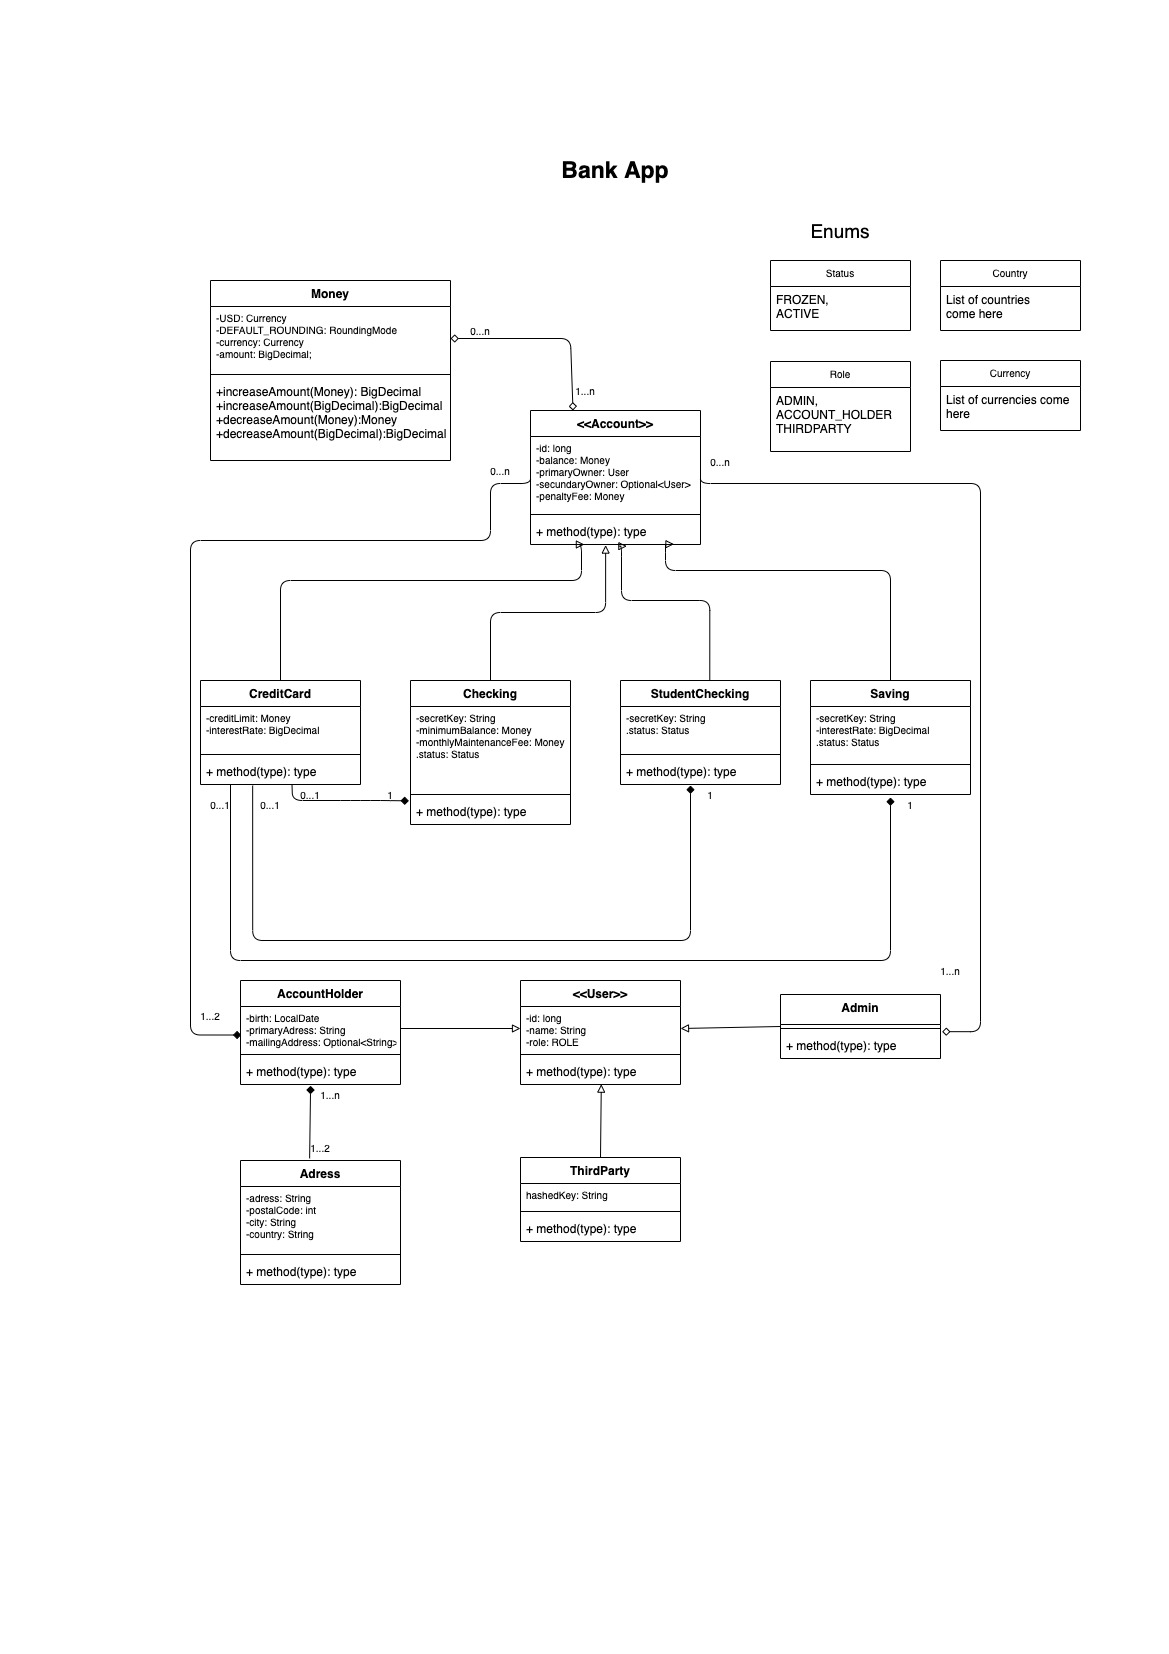
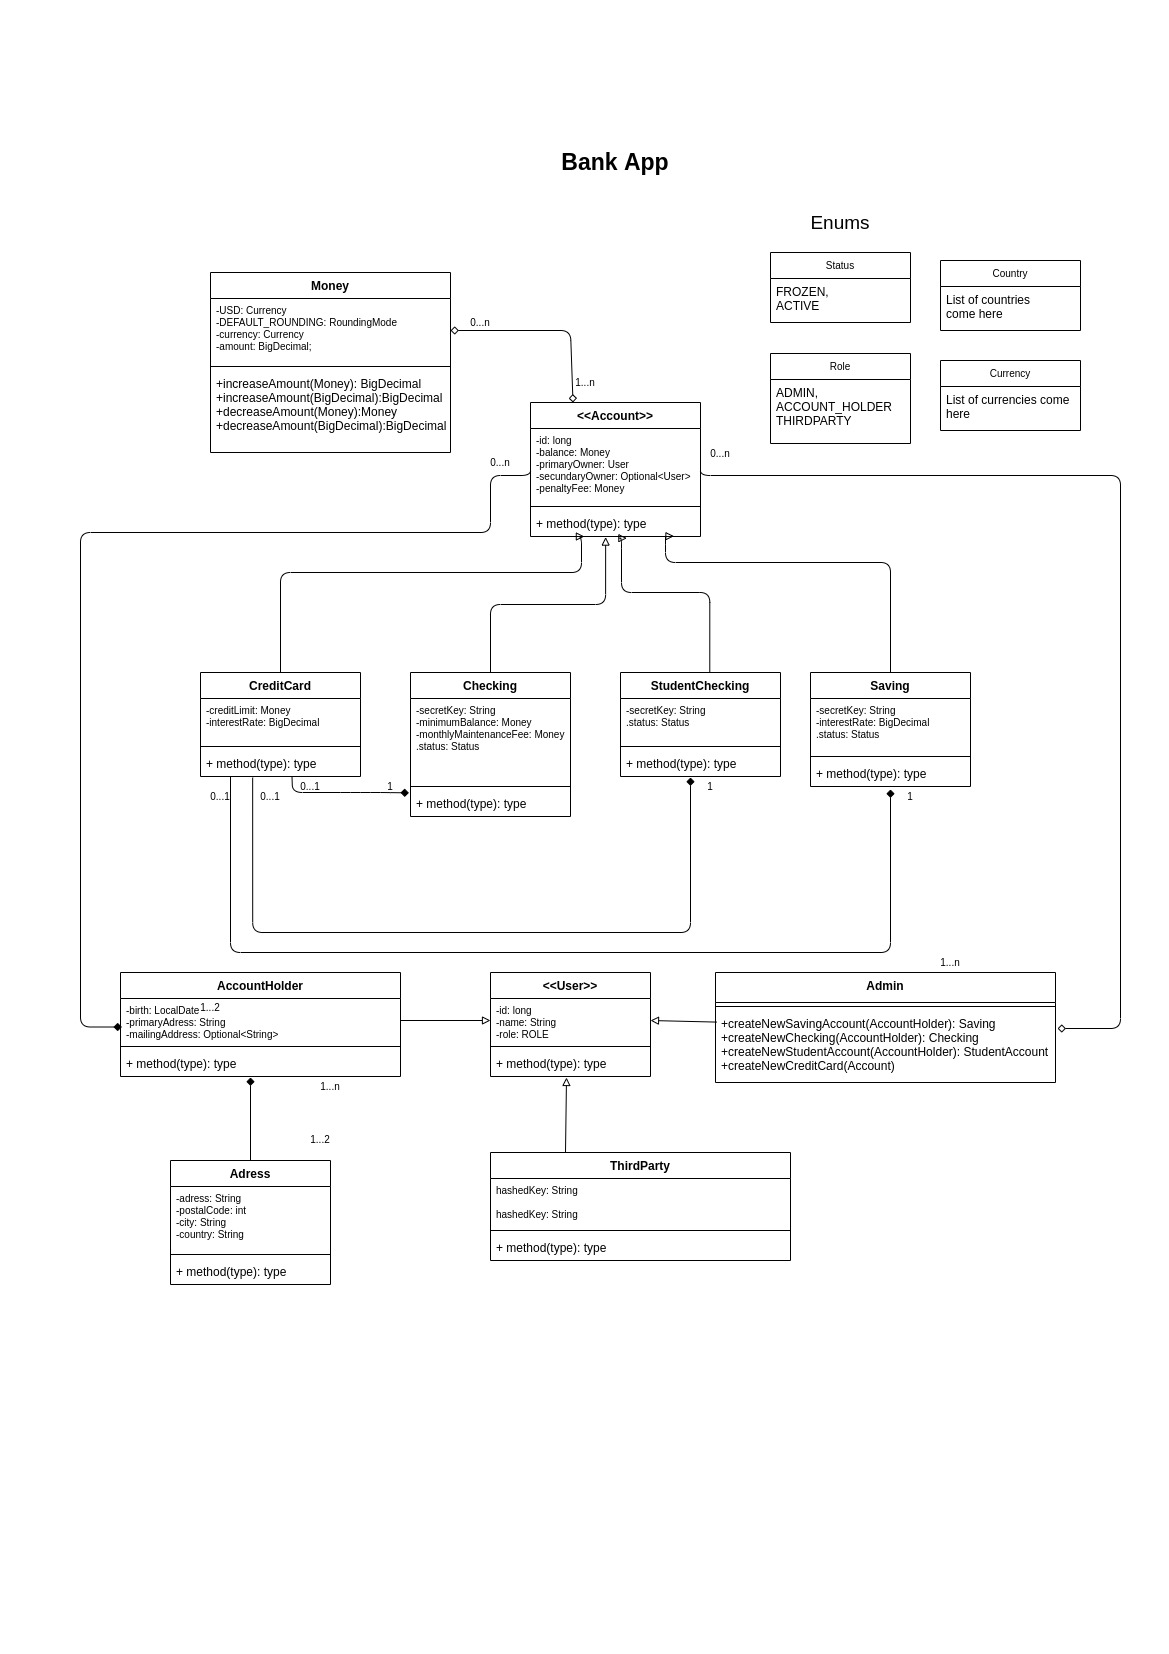
working on relations

diff --git a/src/main/java/com/ironhack/Midtem/Project/model/Address.java b/src/main/java/com/ironhack/Midtem/Project/model/Address.java
@@ -3,10 +3,8 @@ package com.ironhack.Midtem.Project.model;
 import com.ironhack.Midtem.Project.enums.City;
 import com.ironhack.Midtem.Project.enums.Country;
 
-import javax.persistence.Entity;
-import javax.persistence.GeneratedValue;
-import javax.persistence.GenerationType;
-import javax.persistence.Id;
+import javax.persistence.*;
+import java.util.List;
 
 @Entity
 public class Address {
@@ -19,6 +17,14 @@ public class Address {
     //My idea here should be, in the frontend first choose a Country in a menu, and then get a new list of cities.
     private City City;
     private Country country;
+
+    @ManyToMany
+    @JoinTable(
+            name = "account_holder_address",
+            joinColumns = { @JoinColumn(name = "account_holder_id") },
+            inverseJoinColumns = { @JoinColumn(name = "address_id") }
+    )
+    private List<AccountHolder> accountHolders;
 
     public Address() {
     }

diff --git a/src/main/java/com/ironhack/Midtem/Project/model/Account.java b/src/main/java/com/ironhack/Midtem/Project/model/Account.java
@@ -1,22 +1,23 @@
 package com.ironhack.Midtem.Project.model;
 
-import com.ironhack.Midtem.Project.utils.Money;
-
-import javax.persistence.Entity;
-import javax.persistence.GeneratedValue;
-import javax.persistence.GenerationType;
-import javax.persistence.Id;
+import javax.persistence.*;
+import java.math.BigDecimal;
 import java.util.Optional;
 
 @Entity
 public class Account {
 
+    private static final Money PENALTY_FEE= new Money(new BigDecimal("40"));
+
     @Id
     @GeneratedValue(strategy = GenerationType.IDENTITY)
     private long id;
-    private Money balance;
     private AccountHolder primaryOwner;
     private Optional<AccountHolder> secondaryOwner;
+
+    @OneToOne
+    @JoinColumn(name = "balance")
+    private Money balance;
 
     public Account() {
     }

diff --git a/src/main/java/com/ironhack/Midtem/Project/model/Money.java b/src/main/java/com/ironhack/Midtem/Project/model/Money.java
@@ -1,16 +1,24 @@
-package com.ironhack.Midtem.Project.utils;
+package com.ironhack.Midtem.Project.model;
 
+import javax.persistence.*;
 import java.math.RoundingMode;
 import java.math.BigDecimal;
 import java.util.Currency;
 
+@Entity
 public class Money {
 
     private static final Currency USD = Currency.getInstance("USD");
     private static final RoundingMode DEFAULT_ROUNDING = RoundingMode.HALF_EVEN;
 
+    @Id
+    @GeneratedValue(strategy = GenerationType.IDENTITY)
+    private long id;
     private final Currency currency;
     private BigDecimal amount;
+
+    @OneToOne(mappedBy = "balance")
+    private Account account;
 
     /**
      * Class constructor specifying amount, currency, and rounding

diff --git a/src/main/java/com/ironhack/Midtem/Project/model/Checking.java b/src/main/java/com/ironhack/Midtem/Project/model/Checking.java
@@ -1,7 +1,6 @@
 package com.ironhack.Midtem.Project.model;
 
 import com.ironhack.Midtem.Project.enums.Status;
-import com.ironhack.Midtem.Project.utils.Money;
 
 import javax.persistence.Entity;
 import javax.persistence.PrimaryKeyJoinColumn;

diff --git a/src/main/java/com/ironhack/Midtem/Project/model/Saving.java b/src/main/java/com/ironhack/Midtem/Project/model/Saving.java
@@ -1,7 +1,6 @@
 package com.ironhack.Midtem.Project.model;
 
 import com.ironhack.Midtem.Project.enums.Status;
-import com.ironhack.Midtem.Project.utils.Money;
 
 import javax.persistence.Entity;
 import javax.persistence.PrimaryKeyJoinColumn;

diff --git a/src/main/java/com/ironhack/Midtem/Project/model/StudentChecking.java b/src/main/java/com/ironhack/Midtem/Project/model/StudentChecking.java
@@ -1,7 +1,6 @@
 package com.ironhack.Midtem.Project.model;
 
 import com.ironhack.Midtem.Project.enums.Status;
-import com.ironhack.Midtem.Project.utils.Money;
 
 import javax.persistence.Entity;
 import javax.persistence.PrimaryKeyJoinColumn;

diff --git a/src/main/java/com/ironhack/Midtem/Project/model/CreditCard.java b/src/main/java/com/ironhack/Midtem/Project/model/CreditCard.java
@@ -1,7 +1,5 @@
 package com.ironhack.Midtem.Project.model;
 
-import com.ironhack.Midtem.Project.utils.Money;
-
 import javax.persistence.Entity;
 import javax.persistence.PrimaryKeyJoinColumn;
 import java.math.BigDecimal;
